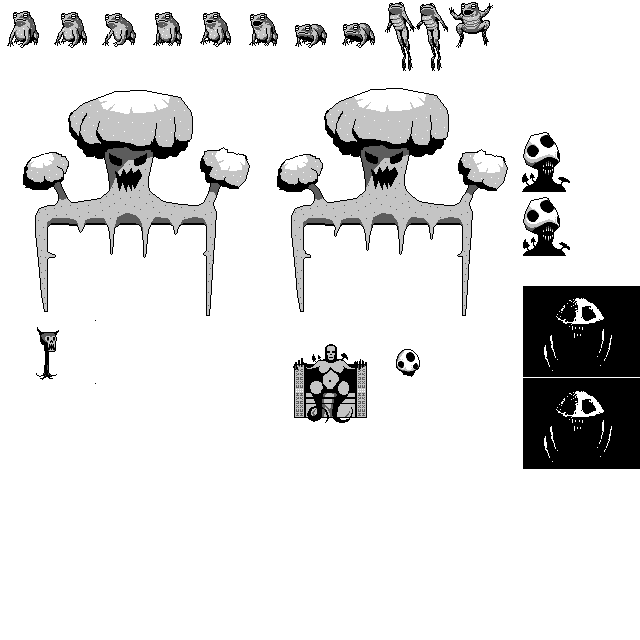
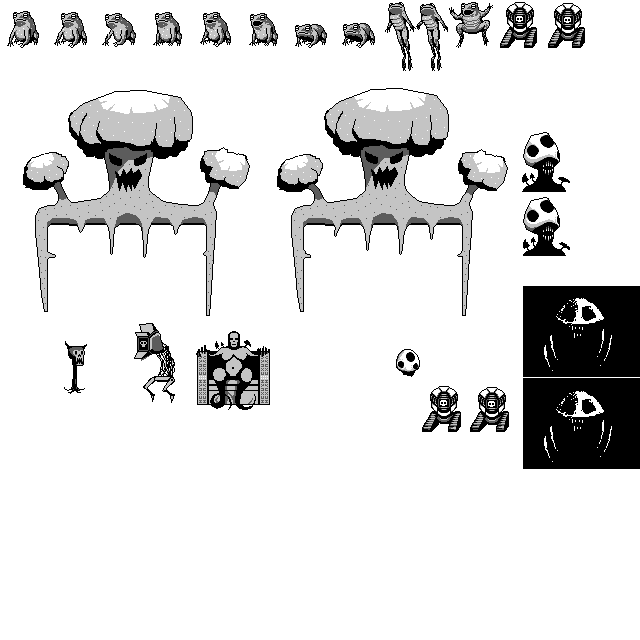
added robo boss

diff --git a/src/worldgen/zones.py b/src/worldgen/zones.py
@@ -71,17 +71,15 @@ def init_zones():
     story_zones.append(ZoneBuilder.make_generated_zone(2, "Caves III", "caves_3"))
     story_zones.append(ZoneBuilder.make_generated_zone(3, "Caves IV", "caves_4"))
 
-    green_color = get_zone(FrogLairZone.ZONE_ID).get_color()
-    story_zones.append(ZoneBuilder.make_generated_zone(4, "Swamps I", "swamps_1", geo_color=green_color))
-    story_zones.append(ZoneBuilder.make_generated_zone(5, "Swamps II", "swamps_2", geo_color=green_color))
-    story_zones.append(ZoneBuilder.make_generated_zone(6, "Swamps III", "swamps_3", geo_color=green_color))
+    story_zones.append(ZoneBuilder.make_generated_zone(4, "Swamps I", "swamps_1", geo_color=colors.LIGHT_GREEN))
+    story_zones.append(ZoneBuilder.make_generated_zone(5, "Swamps II", "swamps_2", geo_color=colors.LIGHT_GREEN))
+    story_zones.append(ZoneBuilder.make_generated_zone(6, "Swamps III", "swamps_3", geo_color=colors.LIGHT_GREEN))
     story_zones.append(get_zone(FrogLairZone.ZONE_ID))
 
-    blue_color = (0.85, 0.85, 1.0)
-    story_zones.append(ZoneBuilder.make_generated_zone(8, "City I", "city_1", geo_color=blue_color))
-    story_zones.append(ZoneBuilder.make_generated_zone(9, "City II", "city_2", geo_color=blue_color))
-    story_zones.append(ZoneBuilder.make_generated_zone(10, "City III", "city_3", geo_color=blue_color))
-    story_zones.append(ZoneBuilder.make_generated_zone(11, "City IV", "city_4", geo_color=blue_color, music_id=music.Songs.DEAD_CITY))
+    story_zones.append(ZoneBuilder.make_generated_zone(8, "City I", "city_1", geo_color=colors.LIGHT_BLUE))
+    story_zones.append(ZoneBuilder.make_generated_zone(9, "City II", "city_2", geo_color=colors.LIGHT_BLUE))
+    story_zones.append(ZoneBuilder.make_generated_zone(10, "City III", "city_3", geo_color=colors.LIGHT_BLUE))
+    story_zones.append(get_zone(RoboLairZone.ZONE_ID))
 
     red_color = get_zone(CaveHorrorZone.ZONE_ID).get_color()
     story_zones.append(ZoneBuilder.make_generated_zone(12, "Rotten Core I", "rotten_core_1", geo_color=red_color))
@@ -742,7 +740,6 @@ class FrogLairZone(Zone):
 
     def __init__(self):
         Zone.__init__(self, "The Dark Pool", 7, filename="frog_lair.png")
-        self.geo_color = (0.85, 1.0, 0.85)
 
     def build_world(self):
         bp, unknowns = ZoneLoader.load_blueprint_from_file(self.get_id(), self.get_file(), self.get_level())
@@ -773,6 +770,35 @@ class FrogLairZone(Zone):
     def is_boss_zone(self):
         return True
 
+    def get_color(self):
+        return colors.LIGHT_GREEN
+
+
+class RoboLairZone(Zone):
+
+    ZONE_ID = "robo_lair"
+
+    def __init__(self):
+        Zone.__init__(self, "Server Room", 11, filename="robo_lair.png")
+        self._robo_color = (255, 170, 170)
+
+    def build_world(self):
+        bp, unknowns = ZoneLoader.load_blueprint_from_file(self.get_id(), self.get_file(), self.get_level())
+        w = bp.build_world()
+        w.set_wall_type(spriteref.WALL_NORMAL_ID)
+
+        robo_pos = unknowns[self._robo_color][0]
+        robo_entity = enemies.EnemyFactory.gen_enemy(enemies.TEMPLATE_ROBO, self.get_level())
+        w.add(robo_entity, gridcell=robo_pos)
+
+        return w
+
+    def get_music_id(self):
+        return music.Songs.DEAD_CITY
+
+    def get_color(self):
+        return colors.LIGHT_BLUE
+
 
 class CaveHorrorZone(Zone):
 
@@ -781,7 +807,6 @@ class CaveHorrorZone(Zone):
     def __init__(self):
         Zone.__init__(self, "Cave Horror's Lair", 15, filename="cave_horror.png")
         self._tree_color = (255, 203, 203)
-        self.geo_color = (1.0, 0.85, 0.85)
 
     def build_world(self):
         bp, unknowns = ZoneLoader.load_blueprint_from_file(self.get_id(), self.get_file(), self.get_level())
@@ -799,6 +824,9 @@ class CaveHorrorZone(Zone):
 
     def get_music_id(self):
         return music.Songs.TREE_THEME
+
+    def get_color(self):
+        return colors.LIGHT_RED
 
 
 class TombTownZone(Zone):

diff --git a/src/game/enemies.py b/src/game/enemies.py
@@ -549,6 +549,43 @@ class FrogBossTemplate(EnemyTemplate):
         })
 
 
+class RoboTemplate(EnemyTemplate):
+
+    def __init__(self):
+        EnemyTemplate.__init__(self, "Mecha Robo")
+
+    def get_sprites(self):
+        return spriteref.Bosses.robo_idle
+
+    def get_map_identifier(self):
+        return ("R", colors.RED)
+
+    def get_shadow_sprite(self):
+        return spriteref.enormous_shadow
+
+    def get_shadow_offset(self):
+        return (0, -8)
+
+    def get_sprite_offset(self):
+        return (0, 6)
+
+    def get_level_range(self):
+        return [11]
+
+    def get_base_stats(self):
+        return stats.BasicStatLookup({
+            StatTypes.VIT: 40,
+            StatTypes.SPEED: 4,
+            StatTypes.ATT: 7,
+            StatTypes.UNARMED_ATT: 0,
+            StatTypes.DEF: 10,
+            StatTypes.INTELLIGENCE: 2,
+            StatTypes.WEALTH: 5,
+            StatTypes.UNARMED_RANGE: 2,
+            StatTypes.UNARMED_IS_PROJECTILE: 1
+        })
+
+
 class CaveHorrorTemplate(EnemyTemplate):
 
     def __init__(self):
@@ -614,6 +651,7 @@ TEMPLATE_CRAB = CrabTemplate()
 
 # bosses
 TEMPLATE_FROG = FrogBossTemplate()
+TEMPLATE_ROBO = RoboTemplate()
 TEMPLATE_CAVE_HORROR = CaveHorrorTemplate()
 
 RAND_SPAWN_TEMPLATES = [TEMPLATE_MUNCHER_SMALL,

diff --git a/src/game/spriteref.py b/src/game/spriteref.py
@@ -206,6 +206,8 @@ class Bosses:
     frog_airborn_rising = []
     frog_airborn_falling = []
 
+    robo_idle = []
+
 
 class Font:
     _alphabet = {}  # str -> img
@@ -727,6 +729,8 @@ def build_ui_sheet(start_pos, raw_ui_img, sheet):
 def build_boss_sheet(start_pos, raw_boss_img, sheet):
     sheet.blit(raw_boss_img, start_pos)
     Bosses.cave_horror_idle = [make(i * 256, 80, 256, 240, shift=start_pos) for i in range(0, 2)]
+
+    Bosses.robo_idle = [make(496 + i * 48, 0, 48, 48, shift=start_pos) for i in range(0, 2)]
 
     Bosses.frog_idle_1 = [make(0 + 48*i, 0, 48, 48, shift=start_pos) for i in range(0, 2)]
     Bosses.frog_idle_2 = [make(96 + 48*i, 0, 48, 48, shift=start_pos) for i in range(0, 2)]

diff --git a/src/world/entities.py b/src/world/entities.py
@@ -334,6 +334,9 @@ class AnimationEntity(Entity):
             self.fric = self.fric if fric is None else fric
             self.collides = self.collides if collides is None else collides
 
+        def get_depth(self):
+            return super().get_depth() - 32  # gotta win~
+
         def set_finish_behavior(self, mode):
             self.on_finish_mode = mode
 

diff --git a/src/utils/colors.py b/src/utils/colors.py
@@ -4,7 +4,9 @@ DARK_GRAY = (0.36, 0.36, 0.36)
 LIGHT_GRAY = (0.85, 0.85, 0.85)
 WHITE = (1, 1, 1)
 
-LIGHT_BLUE = (0.75, 0.75, 1)
+LIGHT_BLUE = (0.85, 0.85, 1)
+LIGHT_RED = (1, 0.85, 0.85)
+LIGHT_GREEN = (0.85, 1, 0.85)
 
 RED = (1, 0.65, 0.65)
 GREEN = (0.65, 1, 0.65)

diff --git a/README.md b/README.md
@@ -3,6 +3,8 @@ babby's first roguelike
 
 here are the five most recent gifs committed:
 
+![163_robo_boss.gif](gifs/163_robo_boss.gif?raw=true "163_robo_boss")
+
 ![162_holy_artifact.gif](gifs/162_holy_artifact.gif?raw=true "162_holy_artifact")
 
 ![161_crab.gif](gifs/161_crab.gif?raw=true "161_crab")
@@ -10,6 +12,4 @@ here are the five most recent gifs committed:
 ![160_putrid_host.gif](gifs/160_putrid_host.gif?raw=true "160_putrid_host")
 
 ![159_color_2.gif](gifs/159_color_2.gif?raw=true "159_color_2")
-
-![158_slug.gif](gifs/158_slug.gif?raw=true "158_slug")
 
